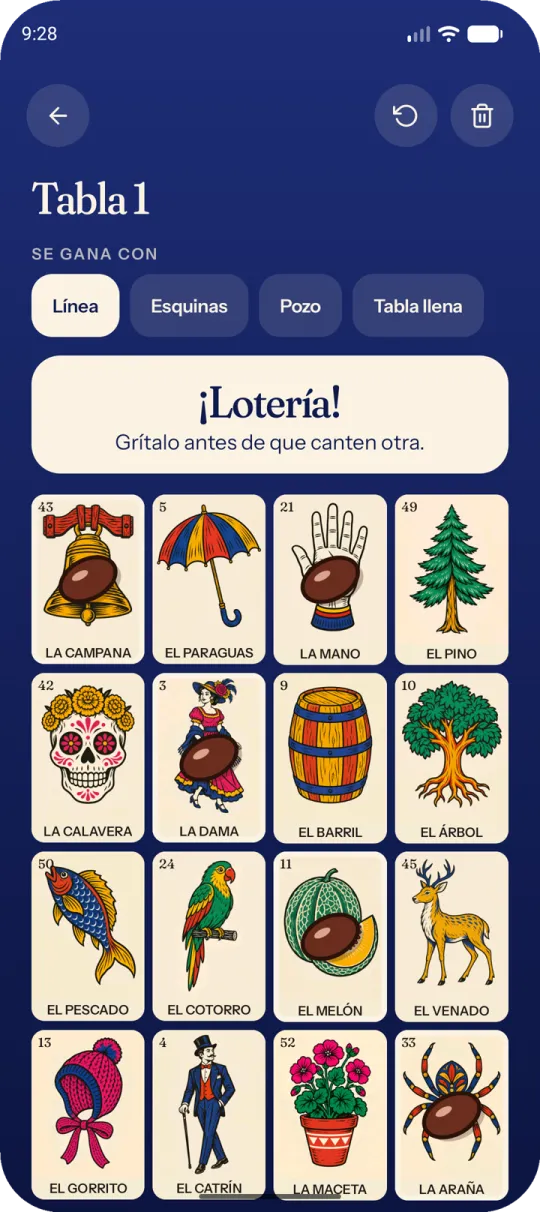
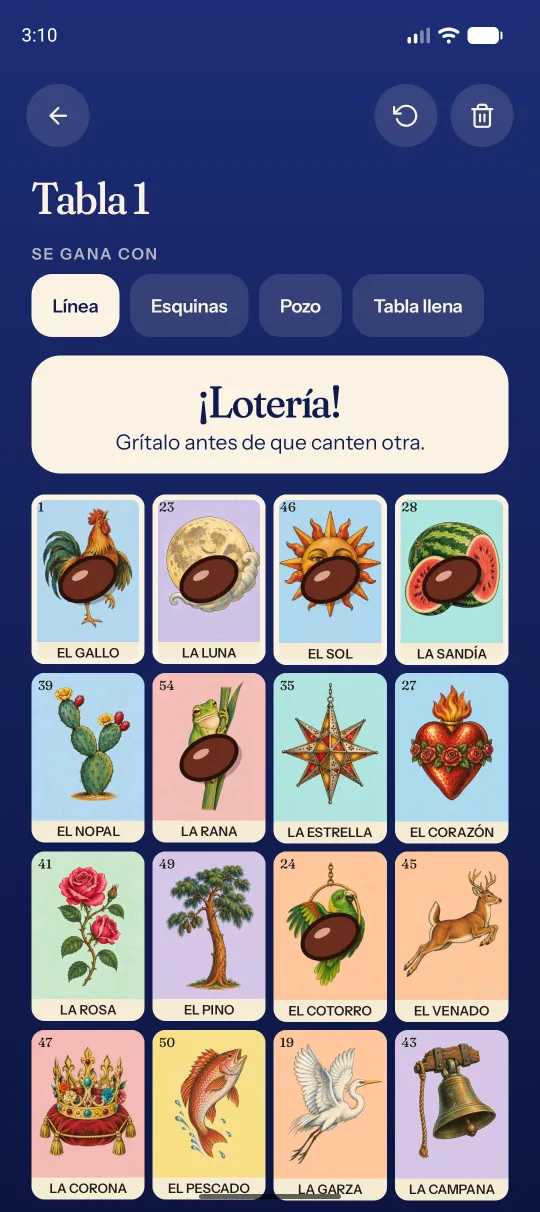
fix(android): capturas actuales de Frijolito

diff --git a/src/components/android/contenido.ts b/src/components/android/contenido.ts
@@ -187,9 +187,9 @@ export const extras: Record<string, Extra> = {
     detalle:
       "Baraja las 54 cartas, las canta en voz alta con su verso y lleva la cuenta de las que salieron, para revisar la tabla de quien grita ¡Lotería! La baraja ilustrada es propia, y hay tablas en el teléfono o para imprimir.",
     capturas: [
-      { n: 1, alt: "Frijolito canta la carta 47, La Corona: el sombrero de los reyes" },
-      { n: 2, alt: "La baraja de Frijolito lista para cantar la primera carta" },
-      { n: 3, alt: "Una tabla de lotería en el teléfono, marcada con frijolitos" },
+      { n: 1, alt: "Frijolito canta la carta 1, El Gallo, con su verso" },
+      { n: 2, alt: "Frijolito canta solo La Luna, una carta cada 4 segundos" },
+      { n: 3, alt: "Una tabla de lotería en el teléfono, marcada con frijolitos y el aviso ¡Lotería!" },
     ],
     red: "sin-llamadas",
     pro: true,
